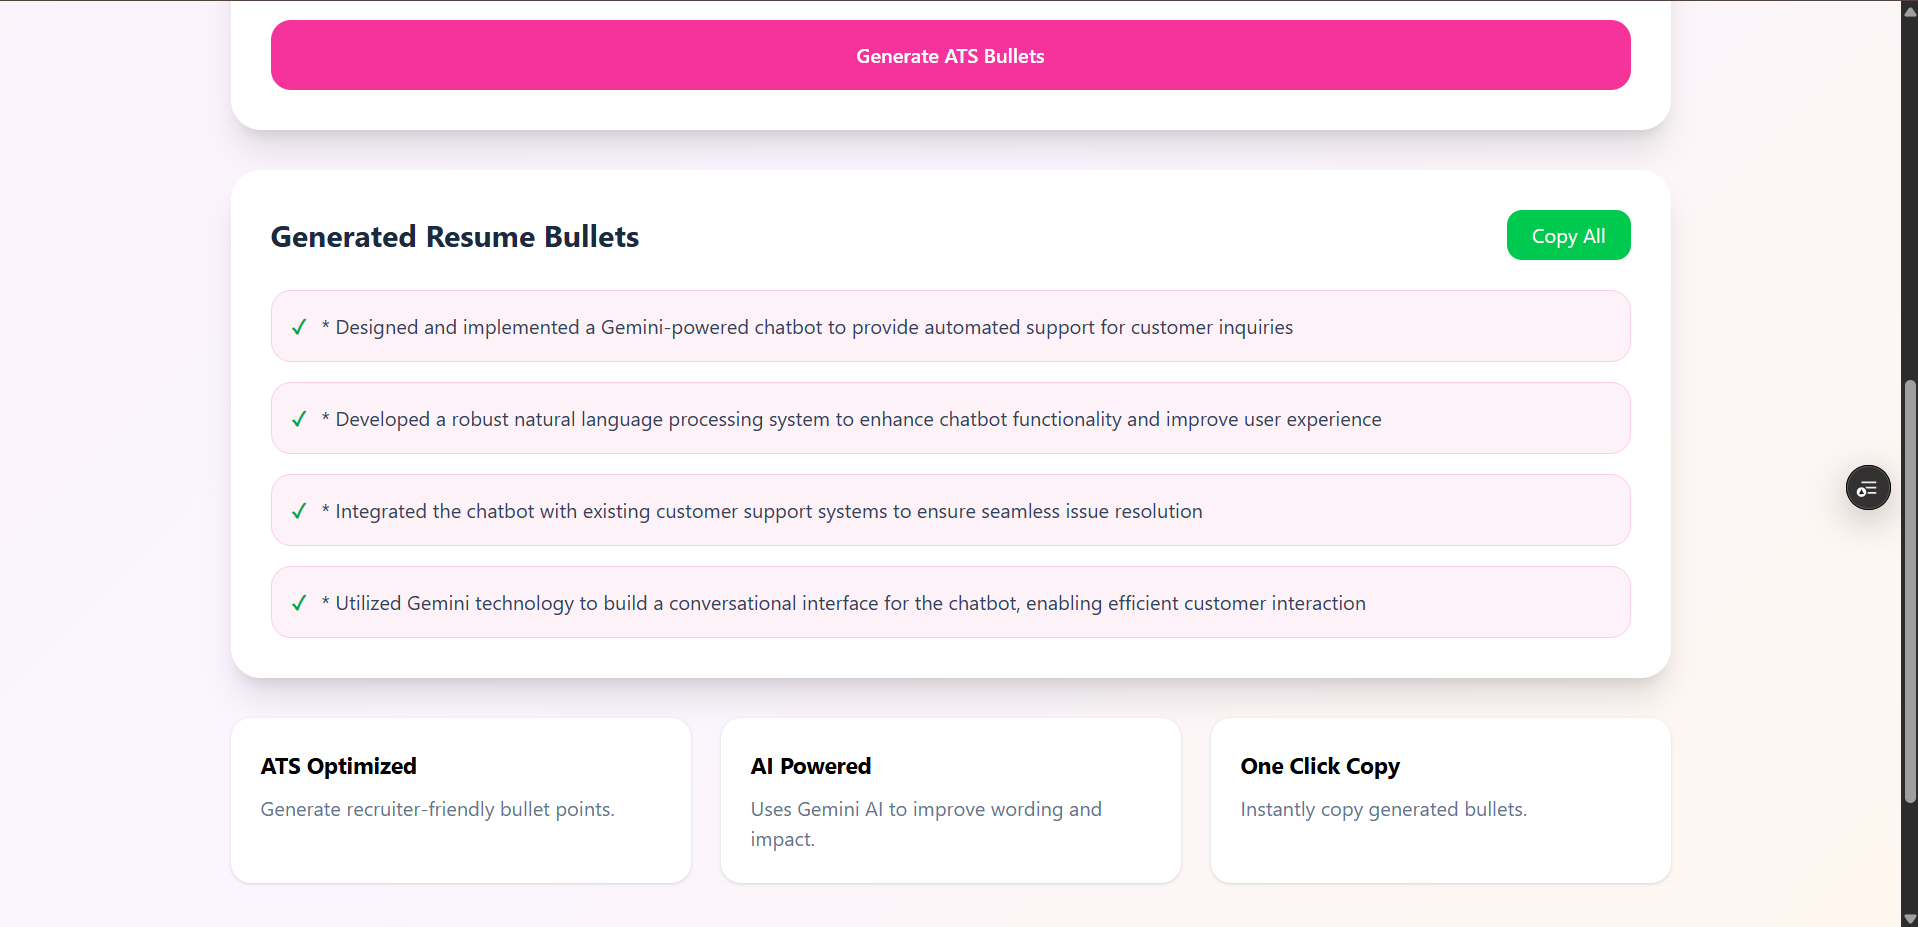
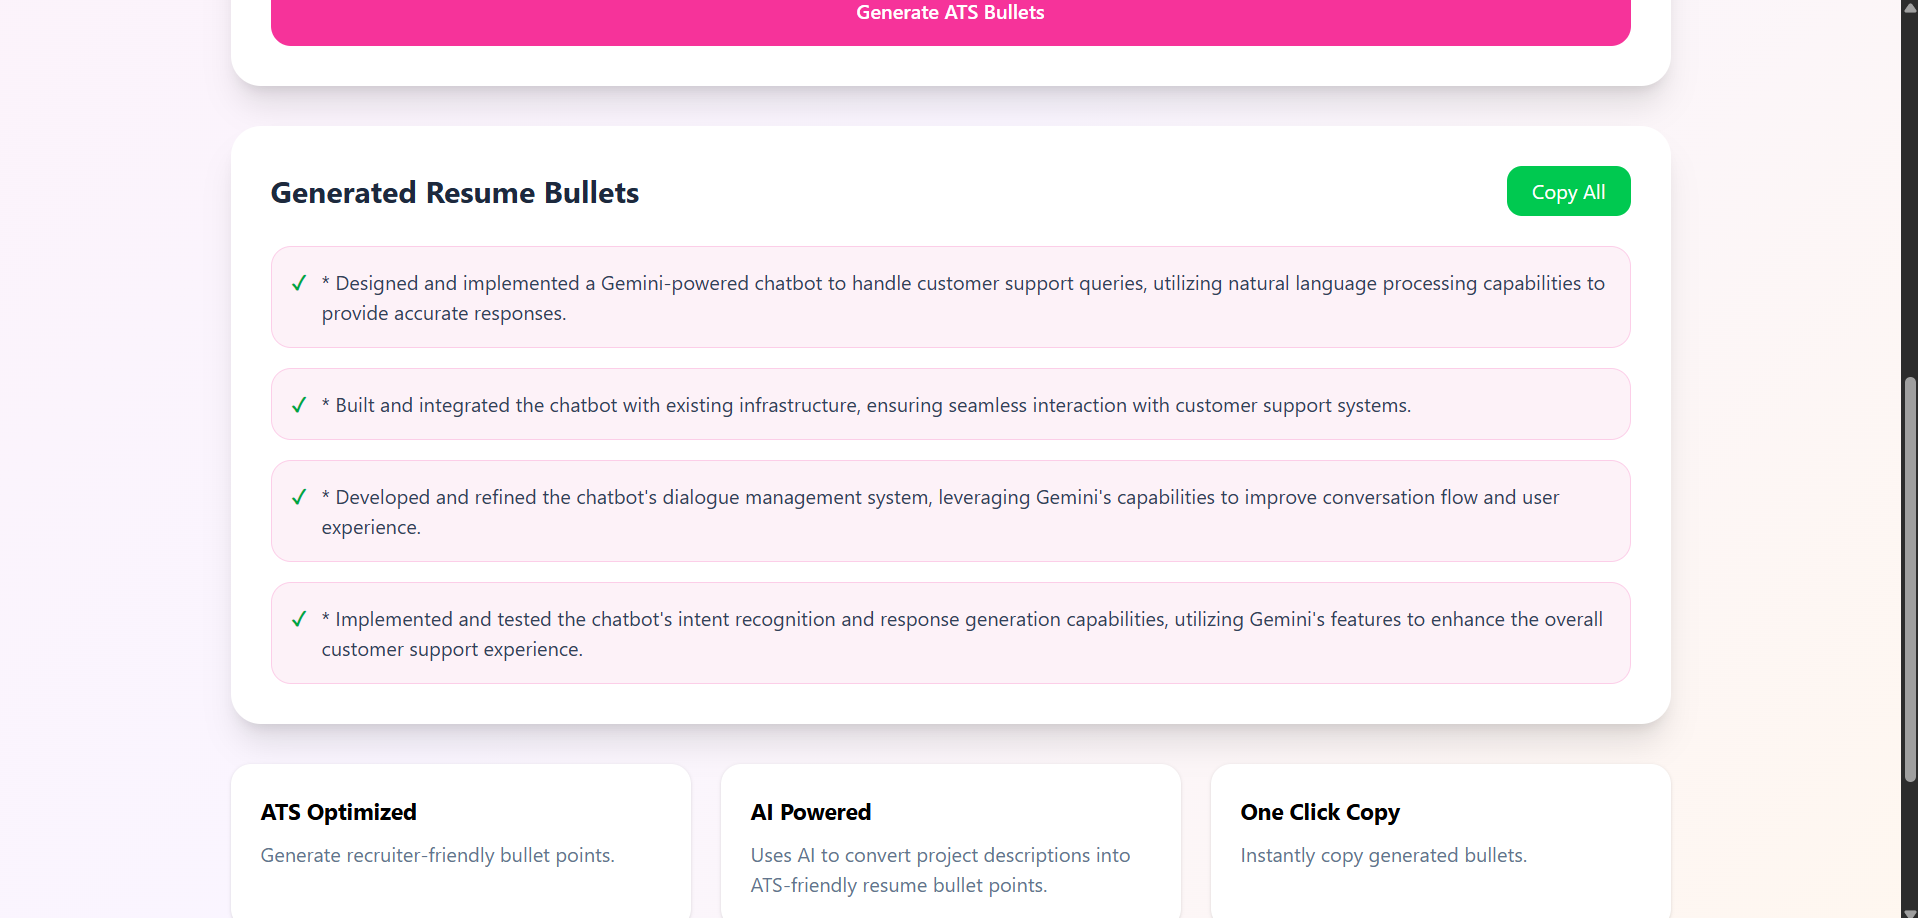
Polish UI and remove Gemini references

diff --git a/frontend/src/components/Benefits.jsx b/frontend/src/components/Benefits.jsx
@@ -16,7 +16,7 @@ export default function Benefits() {
           AI Powered
         </h3>
         <p className="text-slate-500 mt-2">
-          Uses Gemini AI to improve wording and impact.
+          Uses AI to convert project descriptions into ATS-friendly resume bullet points.
         </p>
       </div>
 